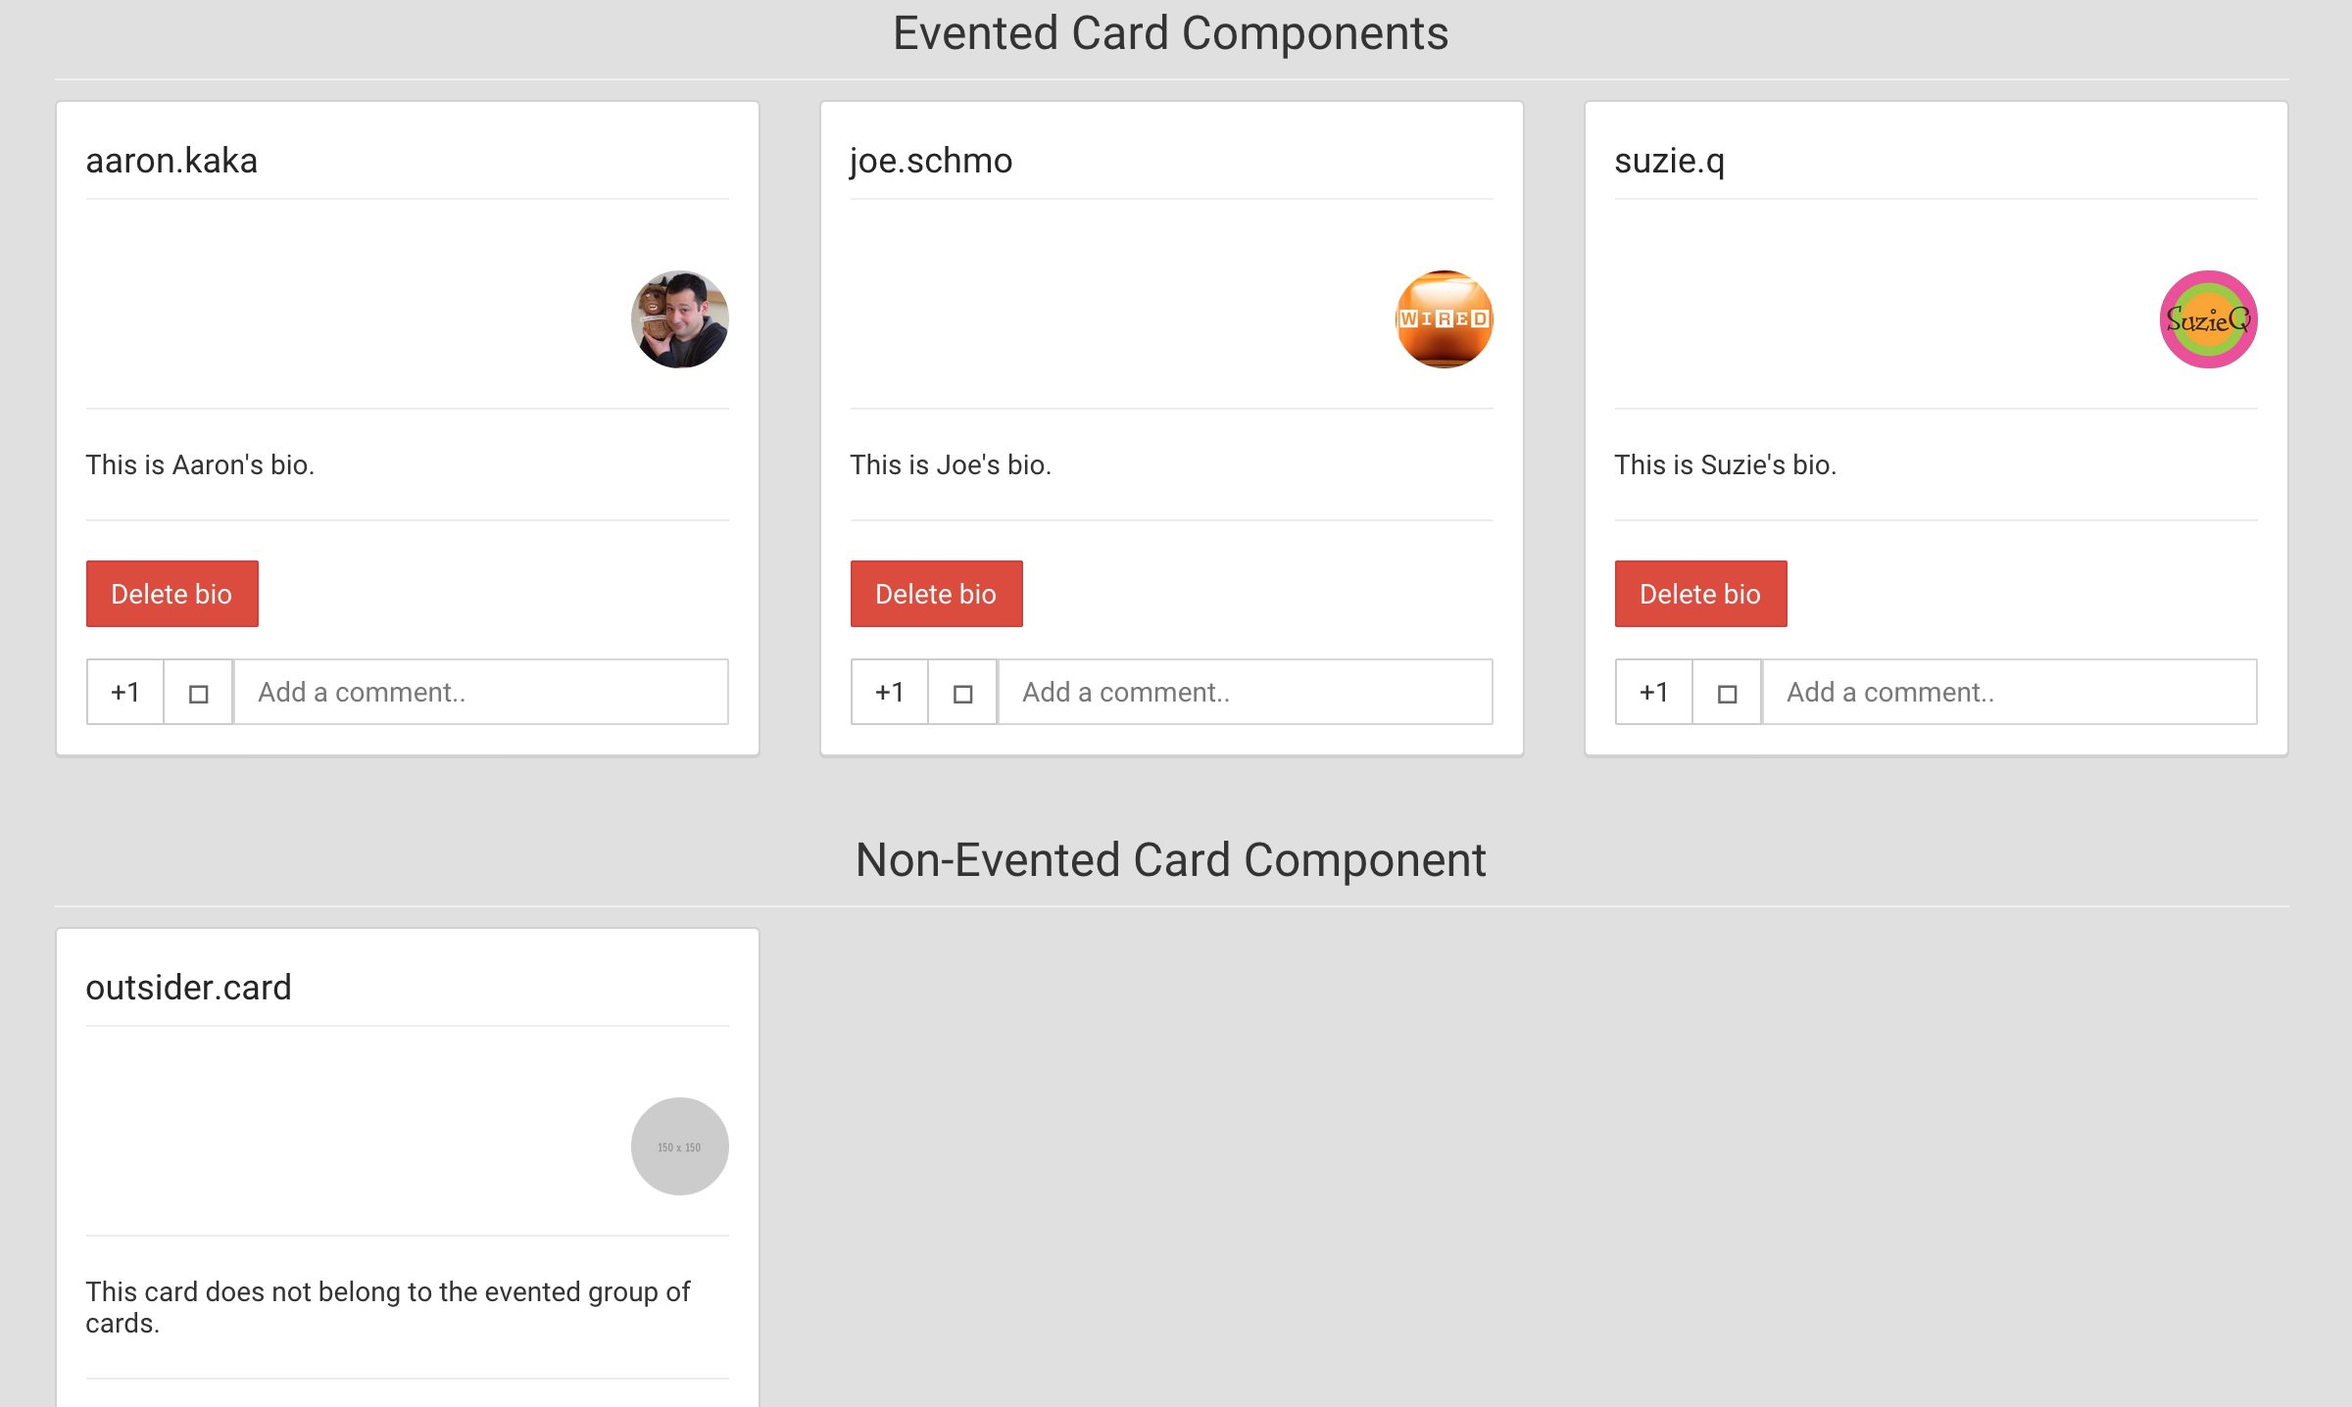
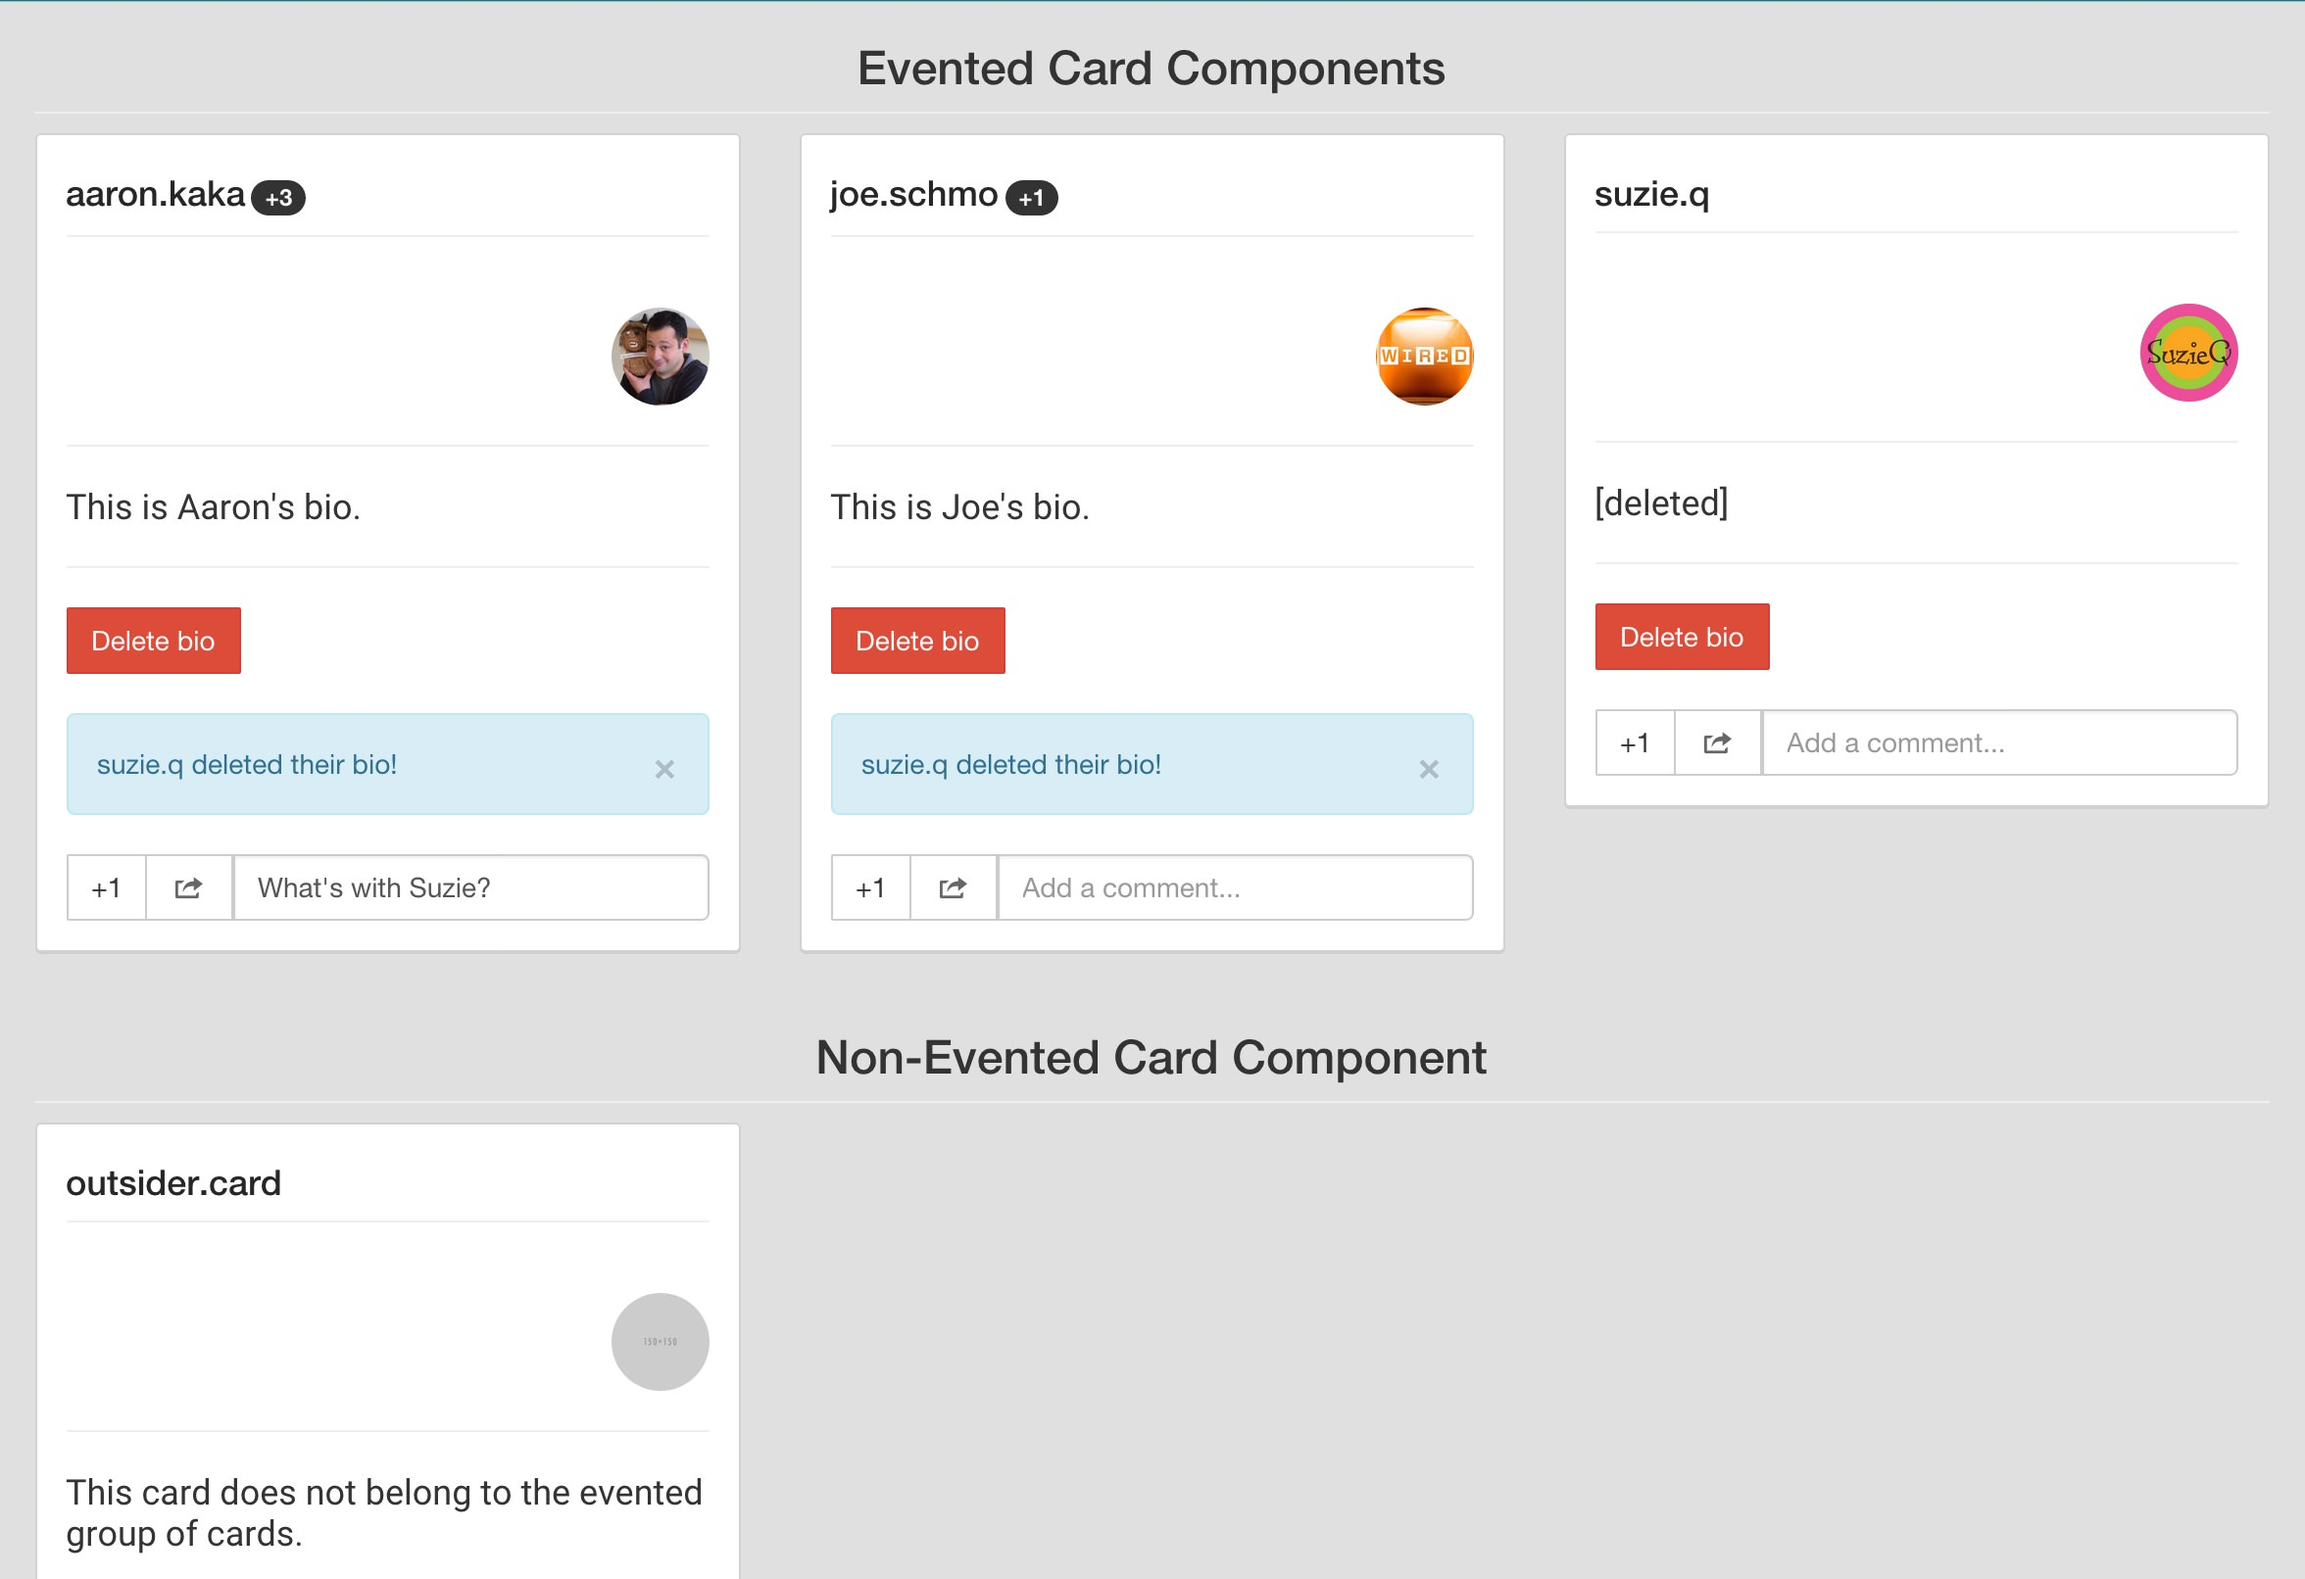
Truncate the username if it's too long. Update eventing doco and screenshot.

diff --git a/__tests__/card.js b/__tests__/card.js
@@ -7,9 +7,9 @@ let React = require('react/addons'),
 describe('Card', function() {
 
   let targetData = {
-        targetElem: "div4",
-        username: "outsider.card",
-        bio: "This card does not belong to the evented group of cards."
+        targetElem: 'div4',
+        username: 'outsider.abcdefghijklmnopqrstuvwxyz',
+        bio: 'This card does not belong to the evented group of cards.'
       },
 
       CardElement = TestUtils.renderIntoDocument(
@@ -20,6 +20,11 @@ describe('Card', function() {
 
   it('creates the card component instance', function () {
     expect(CardElement).toBeDefined();
+  });
+
+  it('correctly displays the username', function () {
+    let usernameDisplay = TestUtils.findRenderedDOMComponentWithTag(CardElement, 'h4');
+    expect(React.findDOMNode(usernameDisplay).textContent).toEqual('outsider.abcdefghijklmnopqrstu '); // add spacer
   });
 
   it('initially has no like count displayed', function () {

diff --git a/react_components/Card.js b/react_components/Card.js
@@ -11,11 +11,16 @@ class CardComponent extends React.Component {
 
     this.state = {
       data: props.data,
+      usernameDisplay: props.data.username,
       likes: 0,
       likeDisplay: '',
       currentComment: '',
       evented: document.getElementById(props.data.eventedElem)
     };
+
+    if (this.state.usernameDisplay.length > 30) {
+      this.state.usernameDisplay = this.state.usernameDisplay.substring(0,30);
+    }
 
     // Events
     this.BIO_DELETED_EVENT = 'card-bioDeleted';
@@ -100,7 +105,7 @@ class CardComponent extends React.Component {
     return (
       <div className="panel panel-default cardComponent">
          <div className="panel-heading cardComponent">
-           <h4 className="cardComponent">{data.username}
+           <h4 className="cardComponent">{this.state.usernameDisplay}
             <a href="#"> <span className="badge">{this.state.likeDisplay}</span></a>
            </h4>
          </div>

diff --git a/README.md b/README.md
@@ -92,3 +92,5 @@ The following events and data are emitted by this component.
 **card-bioDeleted**: { detail: [username] }
 
 **card-liked**: { detail: [username] }
+
+**card-comment**: { detail: { username: [username], comment: [comment] } }
